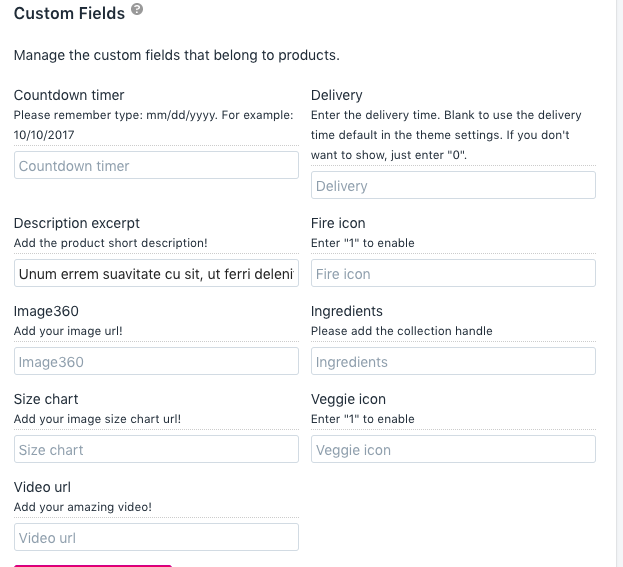
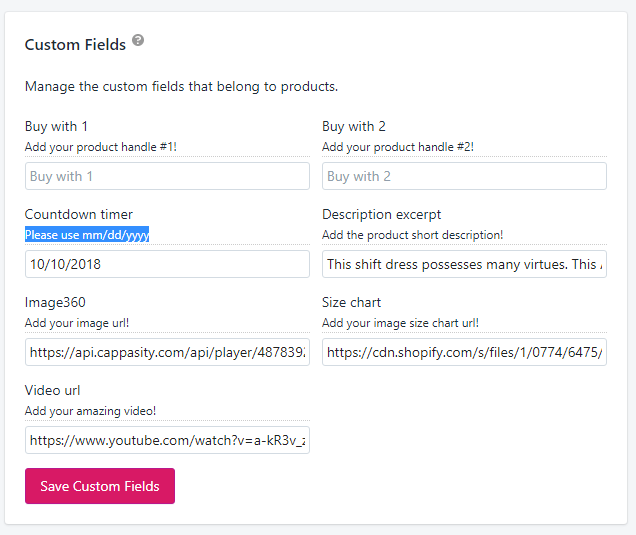
Updates assets/product-custom-field.png
Auto commit by GitBook Editor

diff --git a/chapter1.md b/chapter1.md
@@ -58,23 +58,18 @@ Please read more information about importing and exporting products at [Importin
 
 ##### Please refer to the installation manual at [https://help.shopify.com/manual/apps/working-with-apps\#install-an-app](https://help.shopify.com/manual/apps/working-with-apps#install-an-app)
 
-Mediamarket support 6 Shopify Apps below:
+Labelle supports 3 Shopify Apps below:
 
-* Arena Wishlist Shopify App - [Click here to Install ](/Click here to Install)
-
-* Arena Compare Shopify App - [Click here to Install](http://compare.arenathemes.com)
+1. Arena Wishlist Shopify App - [Click here to Install ](https://wishlist.arenathemes.com/apps/install )
 
 * Product Reviews: Product Review App made by Shopify. [Get App - Product Reviews](https://apps.shopify.com/product-reviews)
 
-* Free Shipping Bar App [Get App - Free Shipping Bar](https://apps.shopify.com/free-shipping-bar)
-
 * HelpCenter - Build an Attractive FAQs Page [Get App - FAQs Page](https://apps.shopify.com/helpcenter)
 
-* Instagram Shop by Snapppt [Get App - Instagram shop by Snapppt](https://apps.shopify.com/254e867e771ed335c210d8d84830371a)
 
 * **Install Shopify MetaFields & Custom Fields - Beta**
 
-Shopify does not support input product custom fields in the dashboard, but there are some add-ons for this that you can use to improve product quality. Example: you can have a short description, video embedded, 3d product embed... for each product.  
+Shopify does not support input product custom fields in the dashboard, but there are some add-ons for this that you can use to improve product quality. Example: you can have a short description, video embedded, 3d product embedded... for each product.  
 One of the extensions you can refer to is the Custom Field Chrome extension made by Jason at [https://chrome.google.com/webstore/detail/custom-fields-for-shopify/alfplfpobekffinigeidgmmfjollghln](https://chrome.google.com/webstore/detail/custom-fields-for-shopify/alfplfpobekffinigeidgmmfjollghln).
 
 Please refer to the user manual at:[https://freakdesign-us.s3.amazonaws.com/shopify/custom\_fields/freakdesign-custom-fields-for-shopify-guide.pdf](https://freakdesign-us.s3.amazonaws.com/shopify/custom_fields/freakdesign-custom-fields-for-shopify-guide.pdf)
@@ -117,36 +112,19 @@ Please refer to the user manual at:[https://freakdesign-us.s3.amazonaws.com/shop
    > > * key: buy\_with\_2
    > > * value: Add your product handle \#2
    >
-   > **Ingredients Meta Field**:
+   > **Countdown Meta Field**:
    >
    > > * namespace: c\_f
-   > > * key: ingredients
-   > > * value: Add the product ingredients description!
+   > > * key: countdown\_timer
+   > > * value: Please use mm/dd/yyyy
    >
-   > **Fire Icon Meta Field**:
-   >
-   > > * namespace: c\_f
-   > > * key: fire\_icon
-   > > * value: Add fire icon for your product
-   >
-   > **Veggie Icon Meta Field**:
-   >
-   > > * namespace: c\_f
-   > > * key: veggie\_icon
-   > > * value: Add fire icon for your product
-   >
-   > **Delivery Time Meta Field**:
-   >
-   > > * namespace: c\_f
-   > > * key: delivery
-   > > * value: Add delivery time detail for your product
 
 5. Use Custom Field to import data to the product  
    ![](/assets/product-custom-field.png)
 
    Another way to manage your product metafield is using meta field apps. You may try install: [https://apps.shopify.com/metafields-editor](https://apps.shopify.com/metafields-editor)
 
-6. ##### Update theme settings as demo
+* **Update theme settings as demo**
 
 The Edit code page lets you edit the code files that make up your theme.  
 From your Shopify admin, go to Online Store &gt; Themes. For the theme that you want to edit, click Actions, then click Edit code.  
